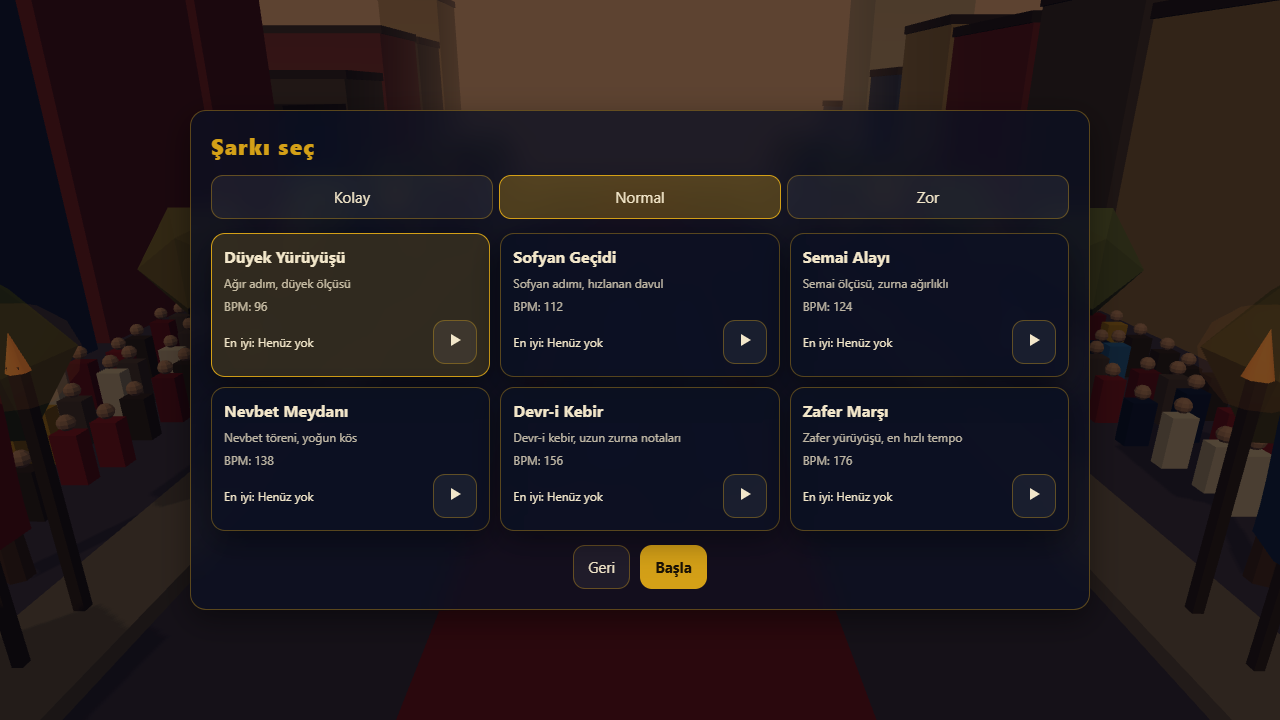
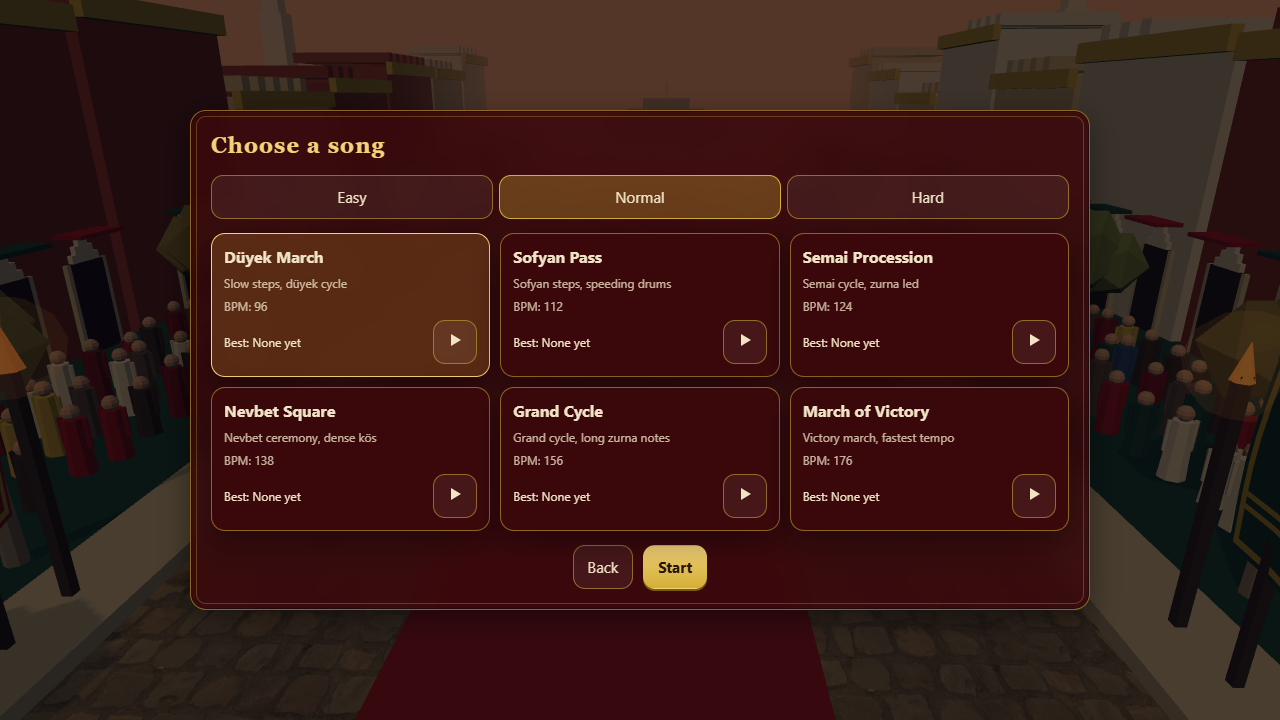
docs: redesign screenshots, before-after image and README section
Claude-Session: https://claude.ai/code/session_014vMYwwQ3htV8WjCni8q7av

diff --git a/README.md b/README.md
@@ -107,6 +107,31 @@ In the browser console, `window.mehter.state()` returns the live state (includin
   </tr>
 </table>
 
+## Redesign (2026-11)
+
+**Art direction:** an Ottoman square at dusk, in crimson, gold and deep green on parchment stone, with torches that
+swell on every beat.
+
+<p align="center"><img src="docs/redesign-before-after.png" width="100%" alt="The same avenue before and after the redesign"><br><sub>Same camera, before (left) and after (right)</sub></p>
+
+- **Environment:** arcaded houses with gold cornices and striped awnings, a mosaic floor drawn on a canvas (replaced
+  by the cobblestone asset when it loads), canvas-painted banners with a crescent and star, a mosque dome and minarets
+  closing the far end, green gardens beside the carpet.
+- **Band:** the drum stick strikes on davul notes, the zil ring flashes gold on every zil hit, the zurna sways more
+  while a note is held.
+- **Look:** a gilded hit line that glows on the beat, gold and crimson sparks and confetti, crimson panels with a gold
+  frame, gilded buttons, tuğra-style flourish dividers, Georgia headings (system font, nothing to download).
+- **Language:** a first visit follows the browser (Turkish for `tr` browsers, English otherwise).
+
+Measured in headless Chrome on the Intel UHD 620 laptop at 1280x720 with `?debug`, on the first song about 13 s in:
+before 60 fps, 29 draw calls, 60,058 triangles; after 60 fps, 31 draw calls, 65,832 triangles. The `?auto` bot
+finishes all six songs with 0 JS errors, both with the assets and with `?noassets`; on the last song it hits all 907
+notes perfectly (S grade).
+
+Not checked: a real phone (the 500x900 layout was checked in a desktop emulation only), a Turkish-locale browser, and
+the drum, zil and zurna motion, which was checked in code and in still frames only. On the 500x900 layout the HUD
+wraps the accuracy to a second row.
+
 <details>
 <summary><b>Phone layout and the asset pass, before and after</b></summary>
 
